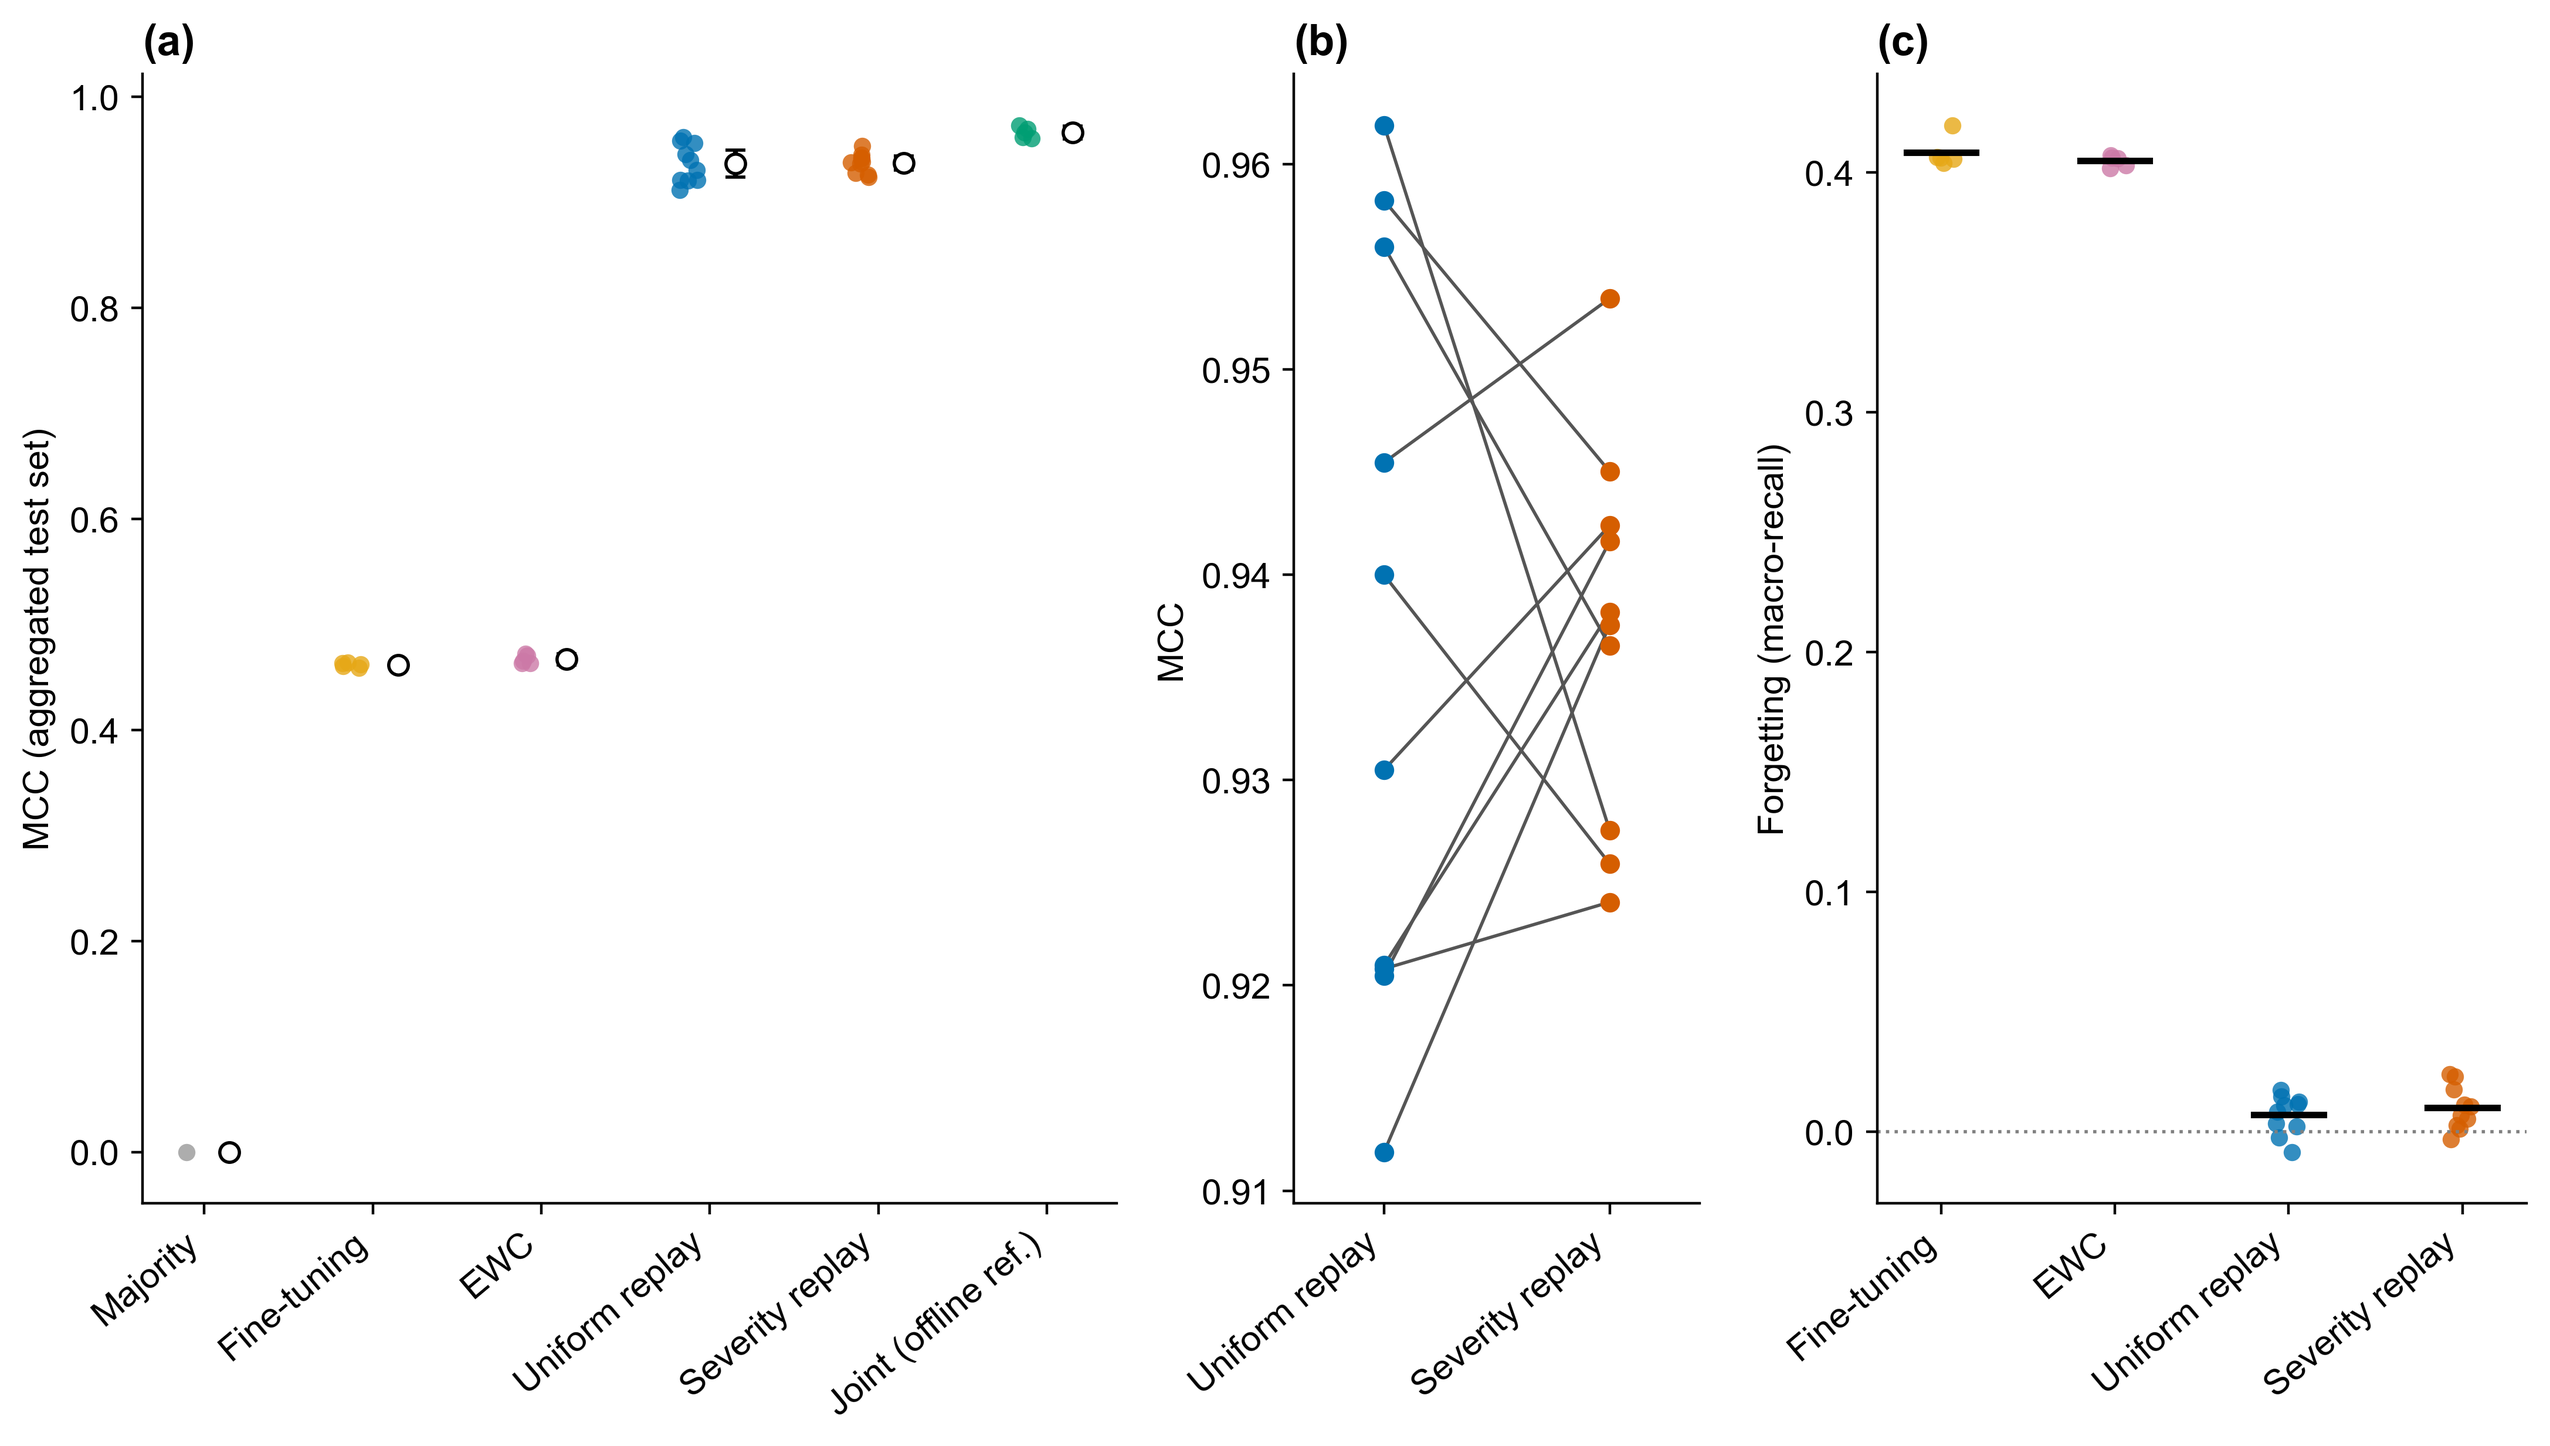
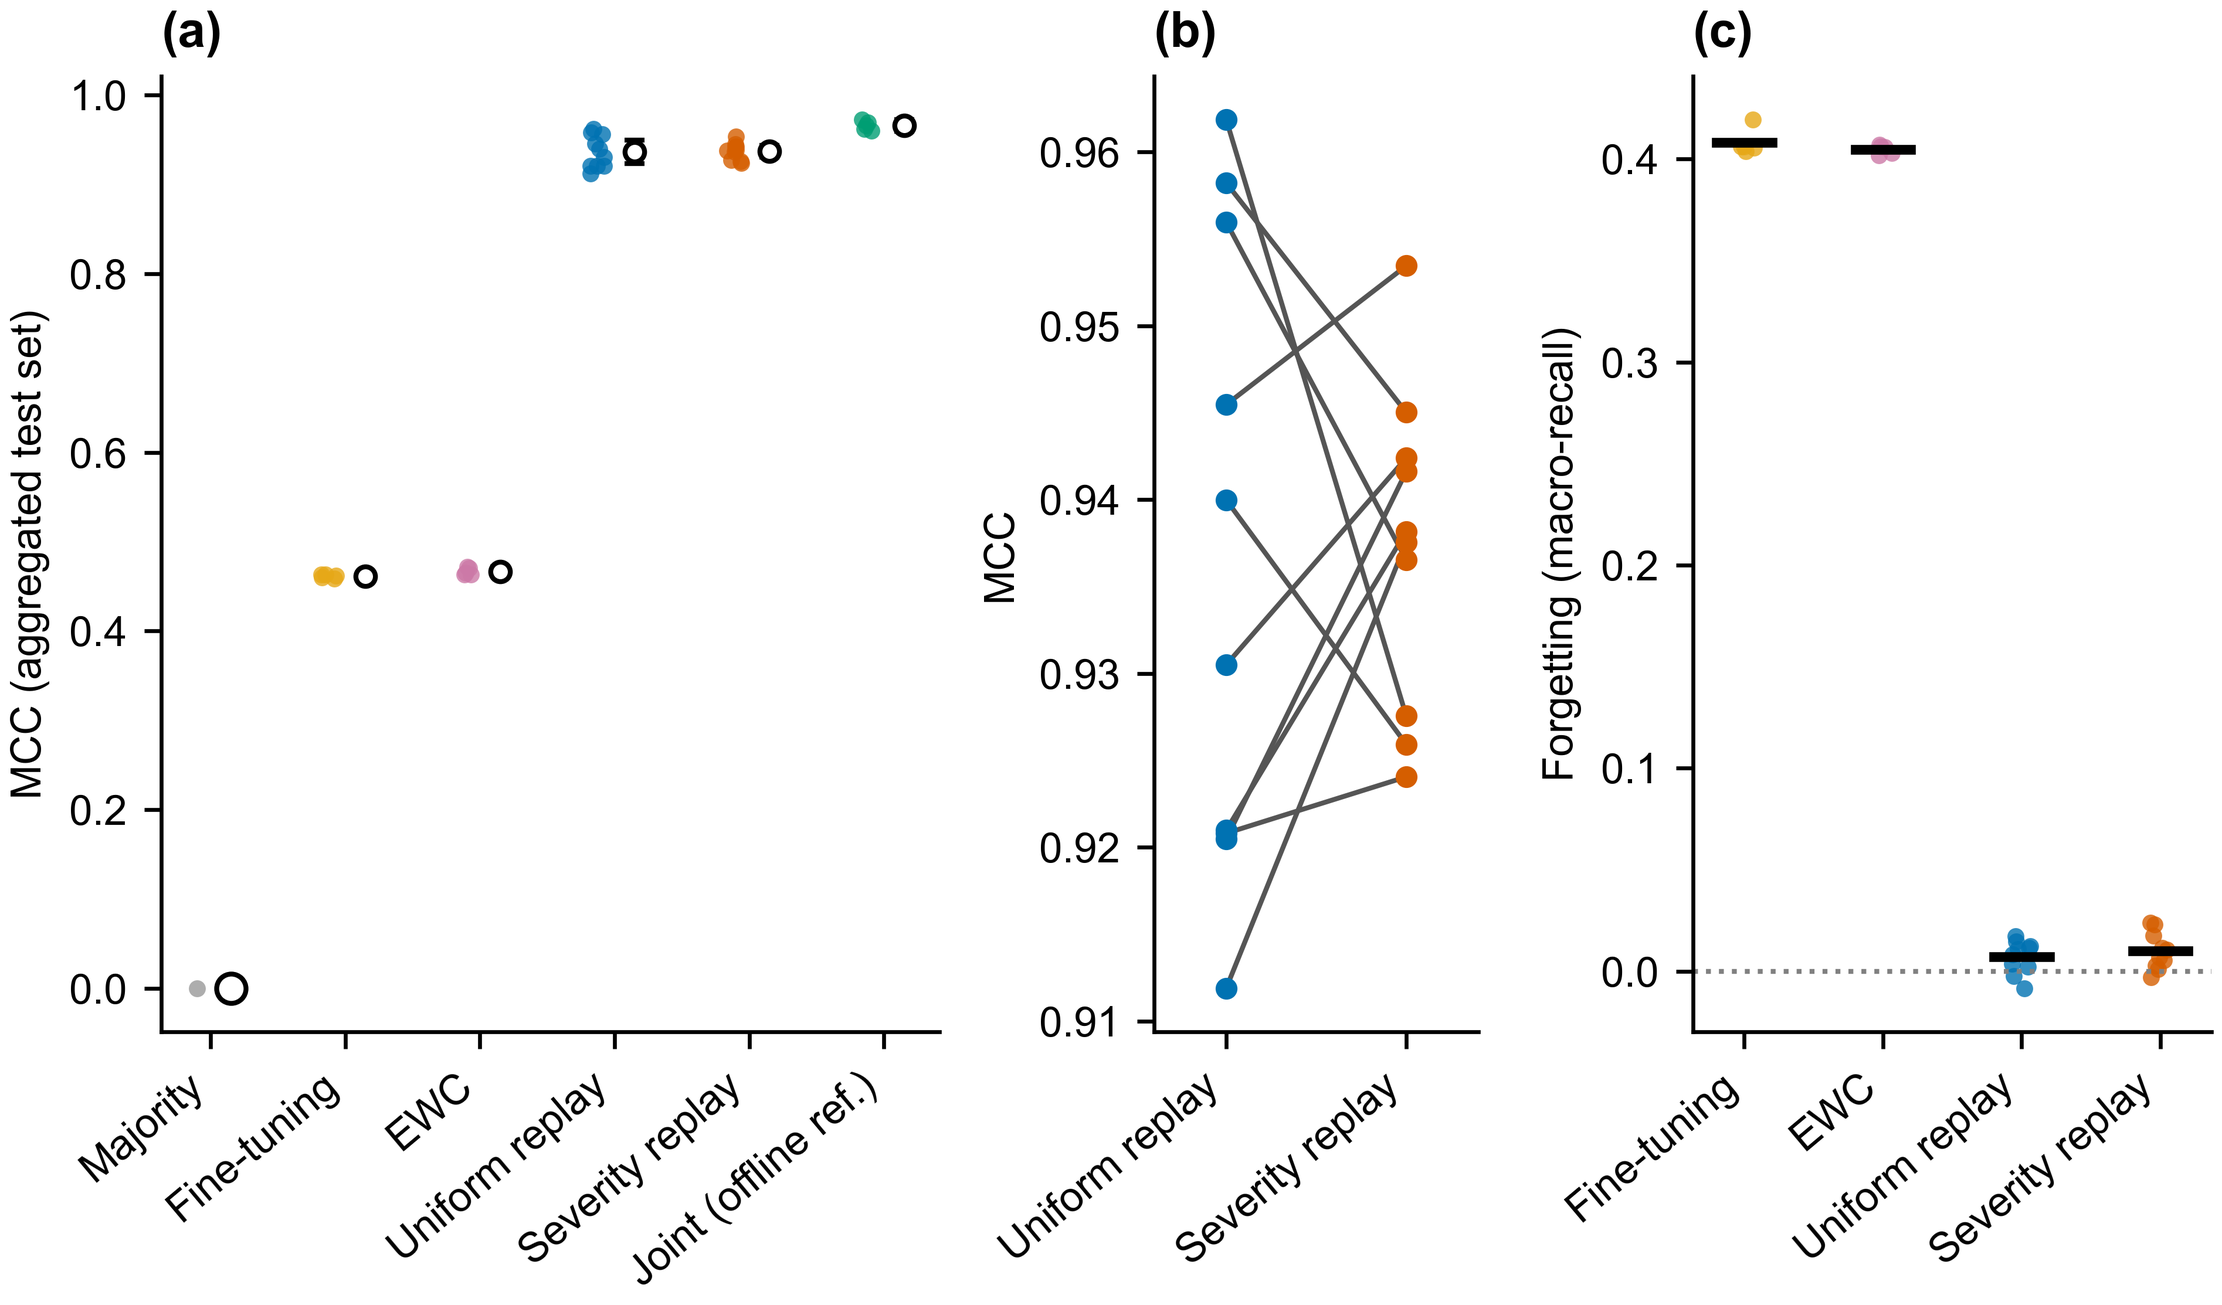
README: supplementary table numbers; figures drawn at printed size
- README: the audit and tree-ensemble outputs are Supplementary Tables
  S2, S3 and S6 of the revised manuscript.
- revision/figures.py: figures are drawn at their printed width with
  8-9 pt labels (TSP template), with a more compact retention figure;
  results/rev/figures/ regenerated. Data and values are unchanged.

diff --git a/revision/figures.py b/revision/figures.py
@@ -15,8 +15,8 @@ os.chdir(ROOT)
 OUT = 'results/rev/figures'
 os.makedirs(OUT, exist_ok=True)
 plt.rcParams.update({'font.family': 'sans-serif', 'font.sans-serif': ['Liberation Sans', 'Arial', 'DejaVu Sans'],
-                     'font.size': 11, 'axes.spines.top': False, 'axes.spines.right': False,
-                     'savefig.dpi': 400, 'savefig.bbox': 'tight'})
+                     'font.size': 8.5, 'axes.spines.top': False, 'axes.spines.right': False,
+                     'savefig.dpi': 600, 'savefig.bbox': 'tight', 'savefig.pad_inches': 0.03})
 COL = {'Majority': '#999999', 'FineTuning': '#E6A817', 'EWC': '#CC79A7', 'ReplayUniform': '#0072B2',
        'ReplayRisk': '#D55E00', 'Joint': '#009E73'}
 LAB = {'Majority': 'Majority', 'FineTuning': 'Fine-tuning', 'EWC': 'EWC', 'ReplayUniform': 'Uniform replay',
@@ -36,66 +36,66 @@ def runs_of(exp):
 
 
 def fig1():
-    fig = plt.figure(figsize=(10.4, 7.9))
+    fig = plt.figure(figsize=(6.4, 4.86))
     ax = fig.add_axes([0, 0.47, 1, 0.53]); ax.set_xlim(0, 100); ax.set_ylim(0, 50); ax.axis('off')
     tasks = [('T1', 'Mon', 'BENIGN\nonly'), ('T2', 'Tue', 'FTP-,\nSSH-Patator'), ('T3', 'Wed', '4 DoS,\nHeartbleed'),
              ('T4', 'Thu AM', 'Web: BF,\nXSS, SQLi'), ('T5', 'Thu PM', 'Infiltration'), ('T6', 'Fri AM', 'Bot'),
              ('T7', 'Fri PM', 'PortScan'), ('T8', 'Fri PM', 'DDoS')]
-    ax.text(0.5, 49, '(a)', fontsize=12, weight='bold', va='top')
+    ax.text(0.5, 49, '(a)', fontsize=9, weight='bold', va='top')
     w, g = 11.2, 1.3
     for i, (t, d, c) in enumerate(tasks):
         x = 1 + i * (w + g)
-        ax.add_patch(FancyBboxPatch((x, 19), w, 23, boxstyle='round,pad=0,rounding_size=1.2', fc='#F2F2F2', ec='k', lw=1))
-        ax.text(x + w / 2, 39.5, t, ha='center', va='center', weight='bold', fontsize=12)
-        ax.text(x + w / 2, 35.5, d, ha='center', va='center', fontsize=11)
-        ax.text(x + w / 2, 28, c, ha='center', va='center', fontsize=11)
+        ax.add_patch(FancyBboxPatch((x, 19), w, 23, boxstyle='round,pad=0,rounding_size=1.2', fc='#F2F2F2', ec='k', lw=0.8))
+        ax.text(x + w / 2, 39.5, t, ha='center', va='center', weight='bold', fontsize=9)
+        ax.text(x + w / 2, 35.5, d, ha='center', va='center', fontsize=8.5)
+        ax.text(x + w / 2, 28, c, ha='center', va='center', fontsize=8.5)
         for (a, b, col) in ((0, 0.6, '#0072B2'), (0.6, 0.8, '#E69F00'), (0.8, 1.0, '#009E73')):
             ax.add_patch(Rectangle((x + 0.8 + a * (w - 1.6), 20.3), (b - a) * (w - 1.6), 2.2, fc=col, ec='none'))
         if i < 7:
-            ax.annotate('', xy=(x + w + g, 30.5), xytext=(x + w, 30.5), arrowprops=dict(arrowstyle='-|>', lw=1))
-    ax.annotate('', xy=(99, 15.5), xytext=(1, 15.5), arrowprops=dict(arrowstyle='-|>', lw=1.2))
-    ax.text(50, 12.5, 'Capture time (one task per CIC-IDS2017 file; BENIGN present in every task)', ha='center', fontsize=11)
+            ax.annotate('', xy=(x + w + g, 30.5), xytext=(x + w, 30.5), arrowprops=dict(arrowstyle='-|>', lw=0.8))
+    ax.annotate('', xy=(99, 15.5), xytext=(1, 15.5), arrowprops=dict(arrowstyle='-|>', lw=1))
+    ax.text(50, 12.5, 'Capture time (one task per CIC-IDS2017 file; BENIGN present in every task)', ha='center', fontsize=8.5)
     for k, (lab, col) in enumerate((('Train 60%', '#0072B2'), ('Validation 20%', '#E69F00'), ('Test 20%', '#009E73'))):
-        ax.add_patch(Rectangle((1 + k * 17, 6.3), 2.4, 2.2, fc=col)); ax.text(4.3 + k * 17, 7.4, lab, va='center', fontsize=11)
-    ax.text(52, 7.4, 'Rows sorted by flow timestamp; chronological split\nwithin each class and day', va='center', fontsize=10.5)
-    ax.text(1, 1.5, 'Scaling: signed log, then StandardScaler fitted on T1 train only; evaluation after T8 on all test partitions',
-            fontsize=10.5)
+        ax.add_patch(Rectangle((1 + k * 17, 6.3), 2.4, 2.2, fc=col)); ax.text(4.3 + k * 17, 7.4, lab, va='center', fontsize=8.5)
+    ax.text(52, 7.4, 'Rows sorted by flow timestamp; chronological split\nwithin each class and day', va='center', fontsize=8)
+    ax.text(1, 1.5, 'Scaling: signed log + StandardScaler fitted on T1 train only; evaluation after T8 on all test partitions',
+            fontsize=8)
     bx = fig.add_axes([0, 0, 1, 0.46]); bx.set_xlim(0, 100); bx.set_ylim(0, 44); bx.axis('off')
-    bx.text(0.5, 43, '(b)', fontsize=12, weight='bold', va='top')
+    bx.text(0.5, 43, '(b)', fontsize=9, weight='bold', va='top')
     bx.text(99, 40.5, 'Shared by all methods; replay batch, severity weights and EWC penalty are method-specific',
-            ha='right', style='italic', fontsize=10.5)
+            ha='right', style='italic', fontsize=8)
     def box(x, y, w, h, txt, fc='white'):
-        bx.add_patch(FancyBboxPatch((x, y), w, h, boxstyle='round,pad=0,rounding_size=0.8', fc=fc, ec='k', lw=1))
-        bx.text(x + w / 2, y + h / 2, txt, ha='center', va='center', fontsize=10.5)
+        bx.add_patch(FancyBboxPatch((x, y), w, h, boxstyle='round,pad=0,rounding_size=0.8', fc=fc, ec='k', lw=0.8))
+        bx.text(x + w / 2, y + h / 2, txt, ha='center', va='center', fontsize=8)
     box(1, 26, 19, 9, 'Current-task batch\n$B_t$ (512 flows)')
     box(1, 6, 19, 10, 'Replay batch $B_r$ (256)\nfrom class-balanced\nreservoir (≤ 500/class)', '#DCE9F5')
-    box(25, 13, 17, 10, 'MLP\n78–512–256–128–15\nReLU, dropout 0.3')
+    box(23.5, 13, 20, 10, 'MLP\n78–512–256–128–15\nReLU, dropout 0.3')
     box(47, 13, 24, 10, r'$\mathcal{L}_{\mathrm{cb{-}focal}}(B_t)$' + '\n+0.5 CE($B_r$) (replay)\n+ EWC penalty (EWC)')
     box(76, 13, 23, 10, 'Adam, LR = $10^{-4}$\n(new optimizer per task)\ngradient clipping 1.0')
-    box(76, 0.5, 23, 7, 'Best epoch on class-averaged\nvalidation CE (patience 10)', '#F5F5F5')
-    box(45, 0.5, 26, 7, 'After the task: update reservoir\n(replay) or Fisher (EWC)', '#F2E3EF')
-    for a, b in (((20, 30), (25, 20)), ((20, 12), (25, 16)), ((42, 18), (47, 18)), ((71, 18), (76, 18)),
-                 ((87.5, 13), (87.5, 7.5)), ((76, 4), (71, 4))):
-        bx.annotate('', xy=b, xytext=a, arrowprops=dict(arrowstyle='-|>', lw=1))
-    bx.plot([45, 10.5], [4, 4], 'k', lw=1); bx.annotate('', xy=(10.5, 6), xytext=(10.5, 3.9), arrowprops=dict(arrowstyle='-|>', lw=1))
-    bx.text(27, 5, 'Next task', style='italic', fontsize=10.5)
+    box(74, 0.5, 25, 7, 'Best epoch: class-averaged\nvalidation CE (patience 10)', '#F5F5F5')
+    box(44, 0.5, 25, 7, 'After the task: update reservoir\n(replay) or Fisher (EWC)', '#F2E3EF')
+    for a, b in (((20, 30), (23.5, 20)), ((20, 12), (23.5, 16)), ((43.5, 18), (47, 18)), ((71, 18), (76, 18)),
+                 ((87.5, 13), (87.5, 7.5)), ((74, 4), (69, 4))):
+        bx.annotate('', xy=b, xytext=a, arrowprops=dict(arrowstyle='-|>', lw=0.8))
+    bx.plot([44, 10.5], [4, 4], 'k', lw=0.8); bx.annotate('', xy=(10.5, 6), xytext=(10.5, 3.9), arrowprops=dict(arrowstyle='-|>', lw=0.8))
+    bx.text(27, 5, 'Next task', style='italic', fontsize=8)
     fig.savefig(f'{OUT}/fig1.png'); plt.close(fig)
 
 
 def fig2(main, S5):
-    fig, axs = plt.subplots(1, 3, figsize=(11, 6.3), gridspec_kw={'width_ratios': [2.4, 1, 1.6]})
+    fig, axs = plt.subplots(1, 3, figsize=(6.5, 3.9), gridspec_kw={'width_ratios': [2.4, 1, 1.6]})
     ms = ['Majority', 'FineTuning', 'EWC', 'ReplayUniform', 'ReplayRisk', 'Joint']
     rng = np.random.default_rng(0)
     for i, m in enumerate(ms):
         v = [r['metrics']['mcc'] for r in main if r['method'] == m]
         if not v:
             continue
-        axs[0].scatter(i - 0.12 + rng.uniform(-0.06, 0.06, len(v)), v, color=COL[m], alpha=0.8, s=28, lw=0)
+        axs[0].scatter(i - 0.12 + rng.uniform(-0.06, 0.06, len(v)), v, color=COL[m], alpha=0.8, s=12, lw=0)
         mu = np.mean(v)
         if len(v) > 1:
             from scipy import stats
             h = stats.t.ppf(0.975, len(v) - 1) * np.std(v, ddof=1) / np.sqrt(len(v))
-            axs[0].errorbar(i + 0.15, mu, yerr=h, fmt='o', mfc='white', mec='k', ecolor='k', capsize=3)
+            axs[0].errorbar(i + 0.15, mu, yerr=h, fmt='o', mfc='white', mec='k', ecolor='k', capsize=2, ms=4)
         else:
             axs[0].scatter(i + 0.15, mu, facecolor='white', edgecolor='k')
     axs[0].set_xticks(range(len(ms))); axs[0].set_xticklabels([LAB[m] for m in ms], rotation=40, ha='right')
@@ -104,15 +104,15 @@ def fig2(main, S5):
     R = {r['seed']: r['metrics']['mcc'] for r in main if r['method'] == 'ReplayRisk'}
     for s in sorted(set(U) & set(R)):
         axs[1].plot([0, 1], [U[s], R[s]], color='#555', lw=1)
-        axs[1].scatter([0], [U[s]], color=COL['ReplayUniform'], zorder=3, s=25)
-        axs[1].scatter([1], [R[s]], color=COL['ReplayRisk'], zorder=3, s=25)
+        axs[1].scatter([0], [U[s]], color=COL['ReplayUniform'], zorder=3, s=12)
+        axs[1].scatter([1], [R[s]], color=COL['ReplayRisk'], zorder=3, s=12)
     axs[1].set_xticks([0, 1]); axs[1].set_xticklabels(['Uniform replay', 'Severity replay'], rotation=40, ha='right')
     axs[1].set_xlim(-0.4, 1.4); axs[1].set_ylabel('MCC'); axs[1].set_title('(b)', loc='left', weight='bold')
     mf = ['FineTuning', 'EWC', 'ReplayUniform', 'ReplayRisk']
     for i, m in enumerate(mf):
         v = [r['forgetting_macro_recall'] for r in main if r['method'] == m and r.get('forgetting_macro_recall') is not None]
         if v:
-            axs[2].scatter(i + rng.uniform(-0.08, 0.08, len(v)), v, color=COL[m], alpha=0.8, s=28, lw=0)
+            axs[2].scatter(i + rng.uniform(-0.08, 0.08, len(v)), v, color=COL[m], alpha=0.8, s=12, lw=0)
             axs[2].plot([i - 0.2, i + 0.2], [np.mean(v)] * 2, 'k', lw=2)
     axs[2].axhline(0, color='grey', ls=':', lw=1)
     axs[2].set_xticks(range(4)); axs[2].set_xticklabels([LAB[m] for m in mf], rotation=40, ha='right')
@@ -122,7 +122,7 @@ def fig2(main, S5):
 
 def fig3(main, counts_support, fn='fig3.png', methods=('ReplayUniform', 'ReplayRisk', 'Joint'), order=CLASS_ORDER):
     classes = [c for c in order if c in counts_support]
-    fig, ax = plt.subplots(figsize=(9, 0.48 * len(classes) + 1.2))
+    fig, ax = plt.subplots(figsize=(5.5, 0.27 * len(classes) + 0.9))
     off = {'ReplayUniform': -0.22, 'ReplayRisk': 0.0, 'Joint': 0.22, 'FineTuning': 0.33, 'EWC': -0.33}
     mk = {'ReplayUniform': 'o', 'ReplayRisk': 'o', 'Joint': 'D', 'FineTuning': 's', 'EWC': '^'}
     for k, c in enumerate(classes):
@@ -133,8 +133,8 @@ def fig3(main, counts_support, fn='fig3.png', methods=('ReplayUniform', 'ReplayR
             v = [r['metrics']['per_class'][c]['recall'] for r in main if r['method'] == m and c in r['metrics']['per_class']]
             if not v:
                 continue
-            ax.scatter(v, [y - off[m]] * len(v), color=COL[m], s=14, alpha=0.6, lw=0)
-            ax.scatter([np.mean(v)], [y - off[m]], color=COL[m], s=70, edgecolor='k', marker=mk[m], zorder=3,
+            ax.scatter(v, [y - off[m]] * len(v), color=COL[m], s=6, alpha=0.6, lw=0)
+            ax.scatter([np.mean(v)], [y - off[m]], color=COL[m], s=26, edgecolor='k', linewidth=0.6, marker=mk[m], zorder=3,
                        label=LAB[m] if k == 0 else None)
     ax.set_yticks(range(len(classes)))
     ax.set_yticklabels([f"{SHORT.get(c, c)} (n = {counts_support[c]:,})" for c in classes][::-1])
@@ -145,7 +145,7 @@ def fig3(main, counts_support, fn='fig3.png', methods=('ReplayUniform', 'ReplayR
 
 
 def fig4(main, fn='fig4.png', methods=('FineTuning', 'EWC', 'ReplayUniform', 'ReplayRisk')):
-    fig, axs = plt.subplots(2, 2, figsize=(10, 9.4))
+    fig, axs = plt.subplots(2, 2, figsize=(5.0, 4.2), gridspec_kw={'hspace': 0.3, 'wspace': 0.12})
     for ax, m, tag in zip(axs.flat, methods, 'abcd'):
         Rs = [r['R_macro_recall'] for r in main if r['method'] == m and r.get('R_macro_recall')]
         ax.set_title(f'({tag}) {LAB[m]}', loc='left', weight='bold')
@@ -159,7 +159,7 @@ def fig4(main, fn='fig4.png', methods=('FineTuning', 'EWC', 'ReplayUniform', 'Re
         for t in range(T):
             for i in range(t + 1):
                 v = M[t, i]; s = '1' if v >= 0.995 else f'{v:.2f}'.lstrip('0')
-                ax.text(i, t, s, ha='center', va='center', color='k' if v > 0.55 else 'w', fontsize=10)
+                ax.text(i, t, s, ha='center', va='center', color='k' if v > 0.55 else 'w', fontsize=8)
         ax.set_xticks(range(T)); ax.set_yticks(range(T))
         ax.set_xticklabels([f'T{i+1}' for i in range(T)]); ax.set_yticklabels([f'T{i+1}' for i in range(T)])
         for s in ax.spines.values():

diff --git a/README.md b/README.md
@@ -143,9 +143,9 @@ Pipeline:
 
 ```bash
 python revision/audit_protocol.py file     # timestamp and duplicate audit, submitted order
-python revision/audit_protocol.py time     # same, revised order (Tables A2, A3)
+python revision/audit_protocol.py time     # same, revised order (Supplementary Tables S2, S3)
 python revision/jobs.py --workers 5 --threads 2   # all revision runs -> results/rev/<experiment>/
-python revision/other_classifiers.py       # random forest / gradient boosting diagnostic (Table A5)
+python revision/other_classifiers.py       # random forest / gradient boosting diagnostic (Supplementary Table S6)
 python revision/analyze.py                 # -> results/rev/summary.json
 python revision/figures.py                 # -> results/rev/figures/
 ```
